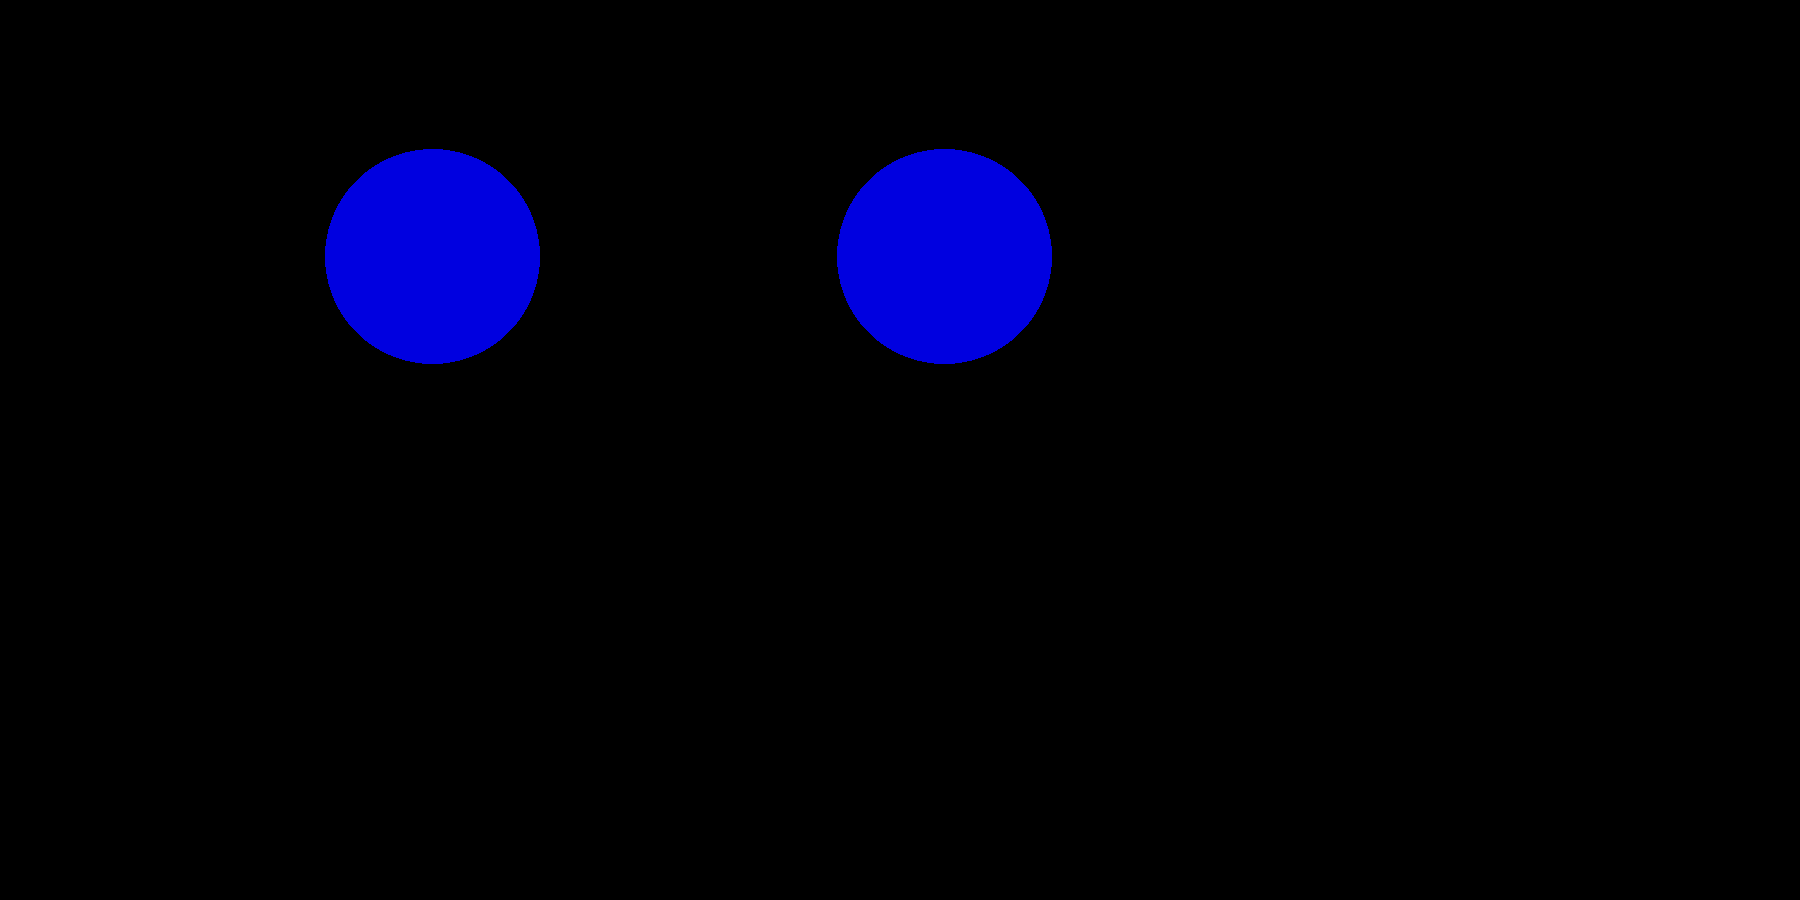
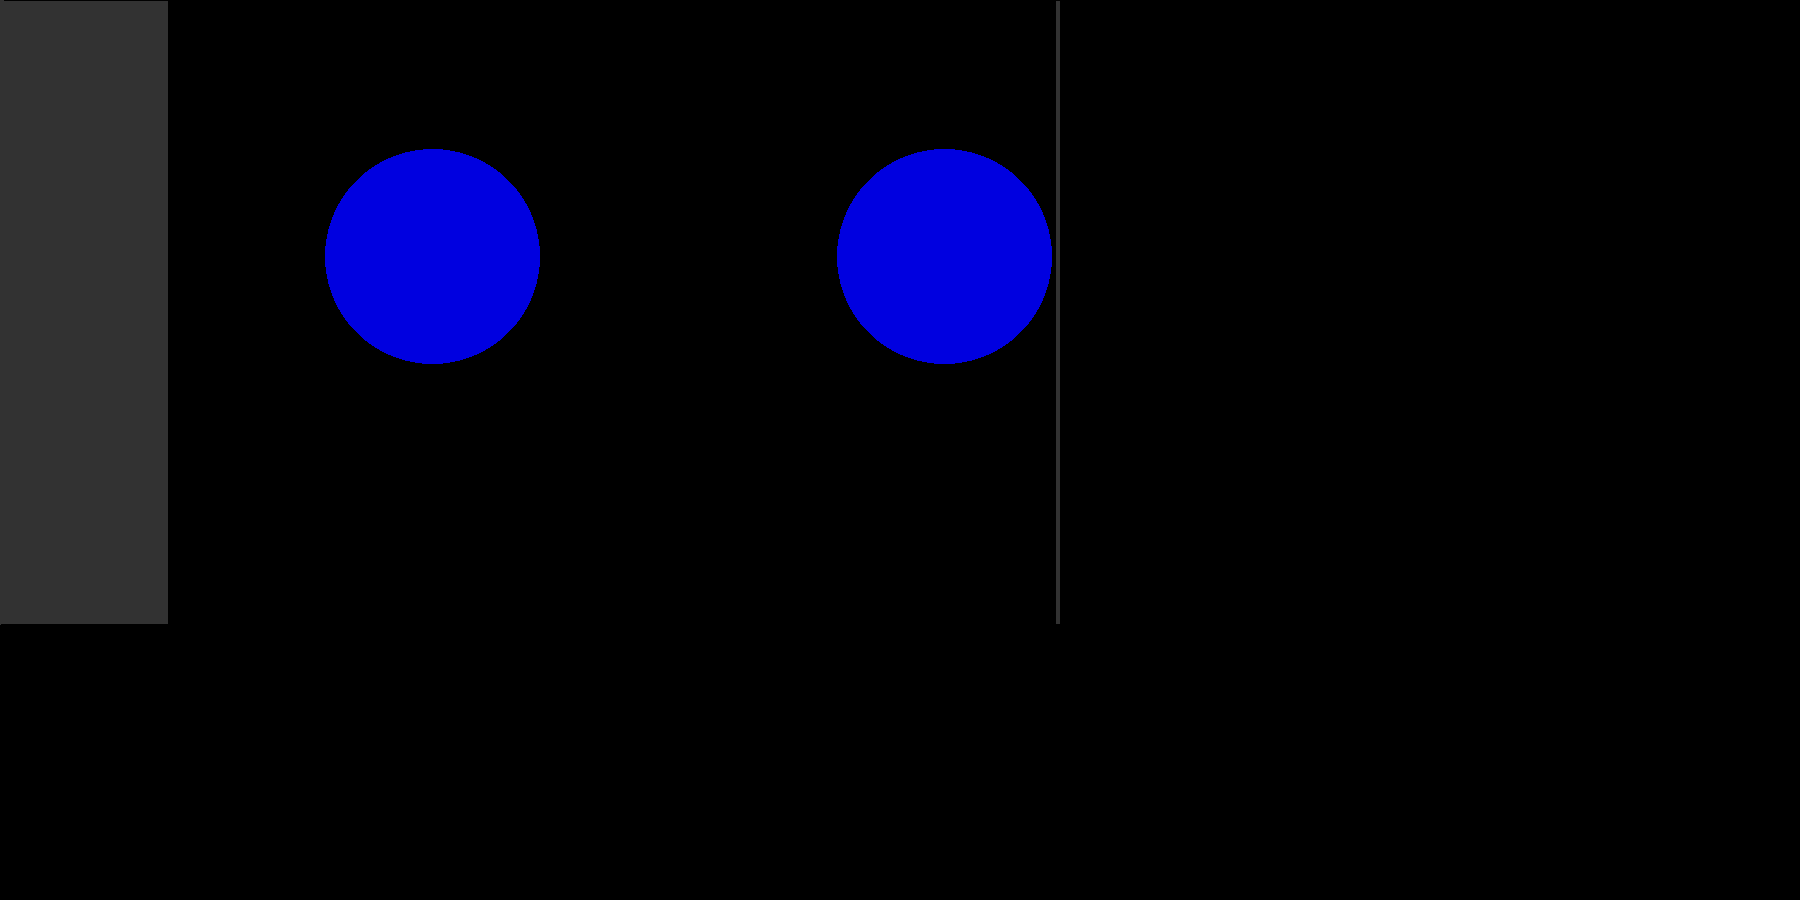
testing shape gen

Changed region(s): [[0.0, 0.0, 0.0933, 0.7156]]

diff --git a/src/synth_tools/vga_sim.py b/src/synth_tools/vga_sim.py
@@ -23,15 +23,22 @@ def convert_csv_to_image(csv_file, output_image):
     row_cnt = 0
 
     # Populate the image pixels
+    x = 0
     y = 0
     for row in rows:
         
         if row[0] != 'clk':
             h = int(row[1], 2)
+            v = int(row[2], 2)
             if (h_delay == 0)and(h == 1):
+                pixels[x, y] = (50, 50, 50)
+                pixels[x+1, y] = (50, 50, 50)
+                pixels[x+2, y] = (50, 50, 50)
+                pixels[x+3, y] = (50, 50, 50)
                 x = 0
                 y += 1 
-            if( int(row[6], 2)<1):      
+
+            if( h == 0 and v == 0 ):      
                 r = int(row[3], 2)
                 g = int(row[4], 2)
                 b = int(row[5], 2)
@@ -40,6 +47,7 @@ def convert_csv_to_image(csv_file, output_image):
                 r = 50
                 g = 50
                 b = 50
+                pixels[x, y] = (r, g, b)
             x += 1
         
             h_delay = int(row[1], 2)
